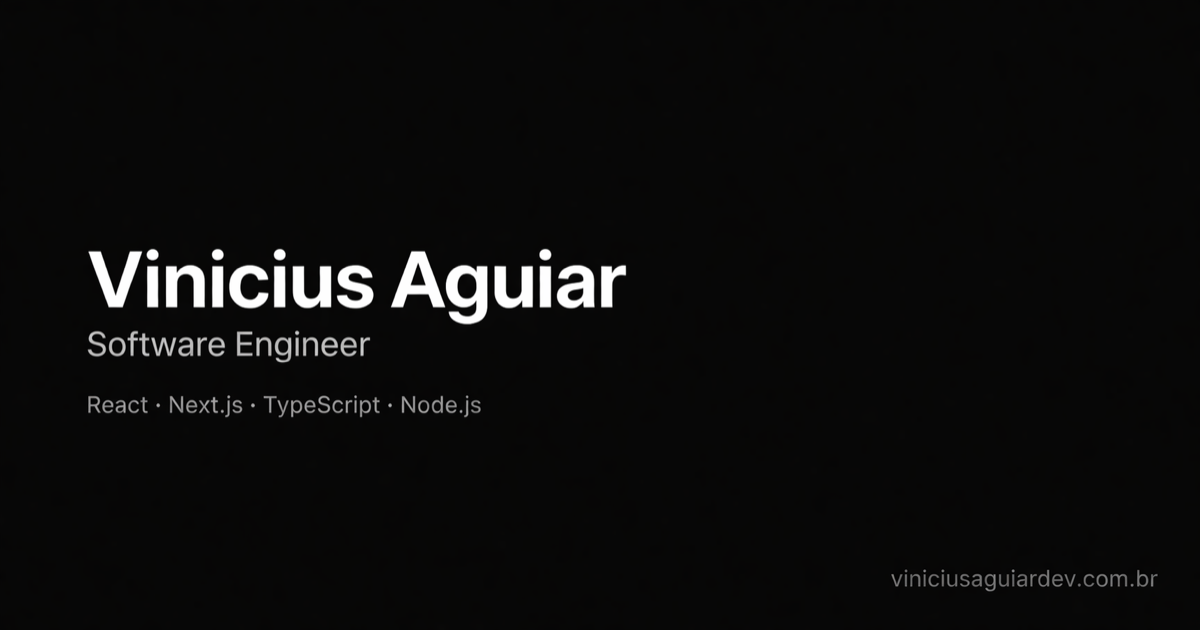
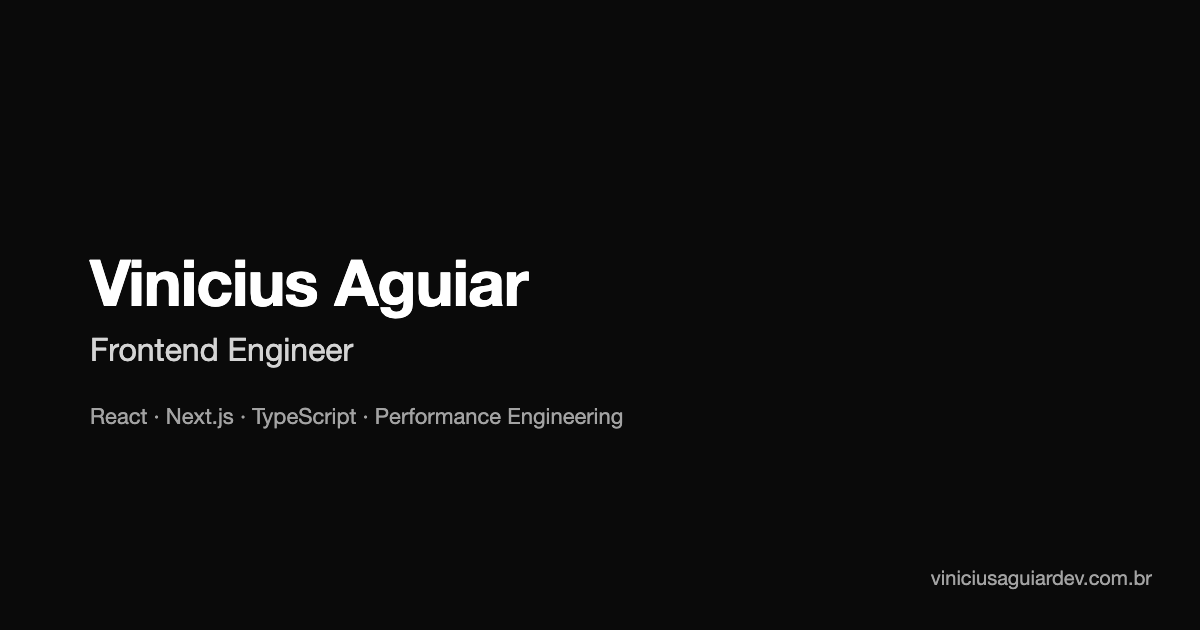
feat(seo): OG/Twitter por artigo, imagens OG novas e um único h1 por página

Changed region(s): [[0.0617, 0.3921, 0.5242, 0.6032], [0.0617, 0.6333, 0.5242, 0.6937], [0.74, 0.9048, 0.9867, 0.9349]]

diff --git a/app/[locale]/posts/[slug]/page.tsx b/app/[locale]/posts/[slug]/page.tsx
@@ -23,12 +23,28 @@ export async function generateMetadata({ params }: PageProps) {
   const locale: Locale = isLocale(rawLocale) ? rawLocale : await getLocale()
   const post = getPostBySlug(slug, locale)
   if (!post) return { title: "Post não encontrado" }
+  const url = `${SITE_URL}${localePath(locale, `/posts/${slug}`)}`
+  const ogImage = post.ogImage || "/og-image.png"
   return {
     title: `${post.title} | Blog`,
     description: post.description ?? undefined,
     alternates: buildAlternates(`/posts/${slug}`, locale),
     // Drafts ficam acessíveis pela URL para preview, mas fora dos buscadores
     robots: post.draft ? { index: false, follow: false } : undefined,
+    openGraph: {
+      type: "article",
+      url,
+      siteName: "Vinicius Aguiar",
+      title: post.title,
+      description: post.description ?? undefined,
+      images: [{ url: ogImage, width: 1200, height: 630, alt: post.title }],
+    },
+    twitter: {
+      card: "summary_large_image",
+      title: post.title,
+      description: post.description ?? undefined,
+      images: [ogImage],
+    },
   }
 }
 

diff --git a/lib/posts.ts b/lib/posts.ts
@@ -50,6 +50,10 @@ export type Post = {
   draft?: boolean
   // Ordenação editorial entre posts featured (menor = primeiro)
   order?: number
+  // Imagem Open Graph própria do post (fallback: /og-image.png do site)
+  ogImage?: string
+  // false => fora da grid da home (continua em busca, sitemap e URL direta)
+  showOnHome?: boolean
 }
 
 const postsDir = path.join(process.cwd(), "data", "posts")
@@ -93,6 +97,8 @@ function buildPost(file: string, raw: RawPostData, locale: Locale): Post {
     featured: Boolean(data.featured),
     draft: Boolean(data.draft),
     order: typeof data.order === "number" ? data.order : undefined,
+    ogImage: typeof data.ogImage === "string" ? data.ogImage : undefined,
+    showOnHome: data.showOnHome !== false,
   }
 }
 

diff --git a/components/app-sidebar.tsx b/components/app-sidebar.tsx
@@ -32,7 +32,7 @@ export async function AppSidebar() {
 
         {/* Name and Title */}
         <div className="text-center mb-1 dark:text-white">
-          <h1 className="text-3xl dark:text-white font-light text-[#444] leading-none mb-1">Vinicius Aguiar</h1>
+          <p className="text-3xl dark:text-white font-light text-[#444] leading-none mb-1">Vinicius Aguiar</p>
           <p className="text-lg font-normal text-gray-500 -mt-1">Frontend Engineer</p>
         </div>
 
